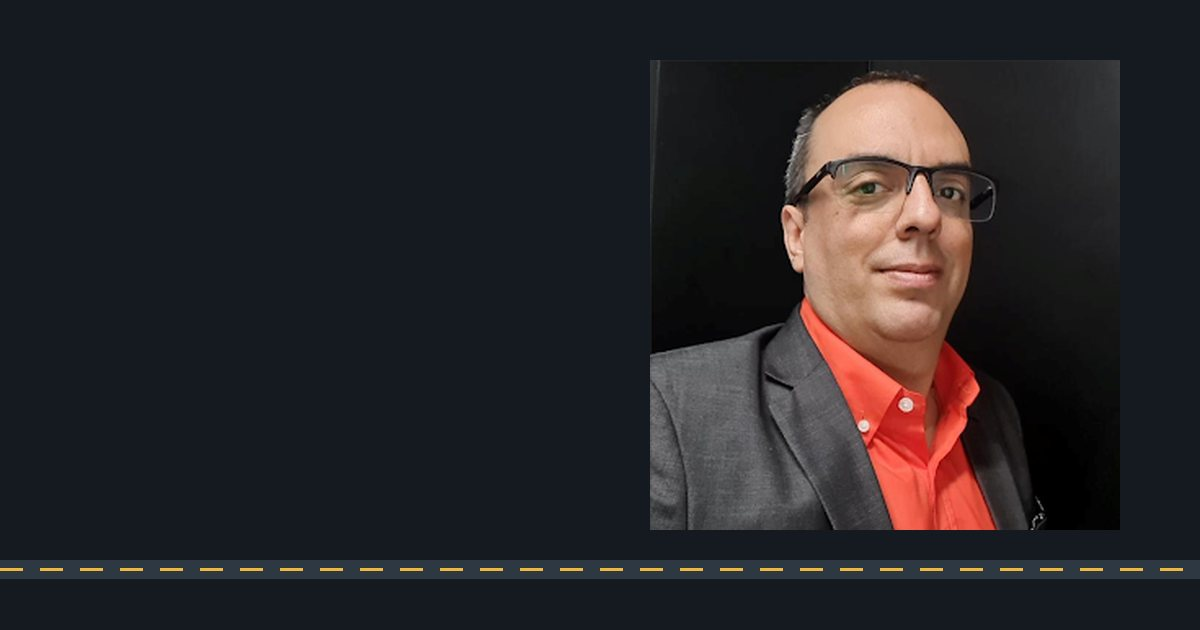
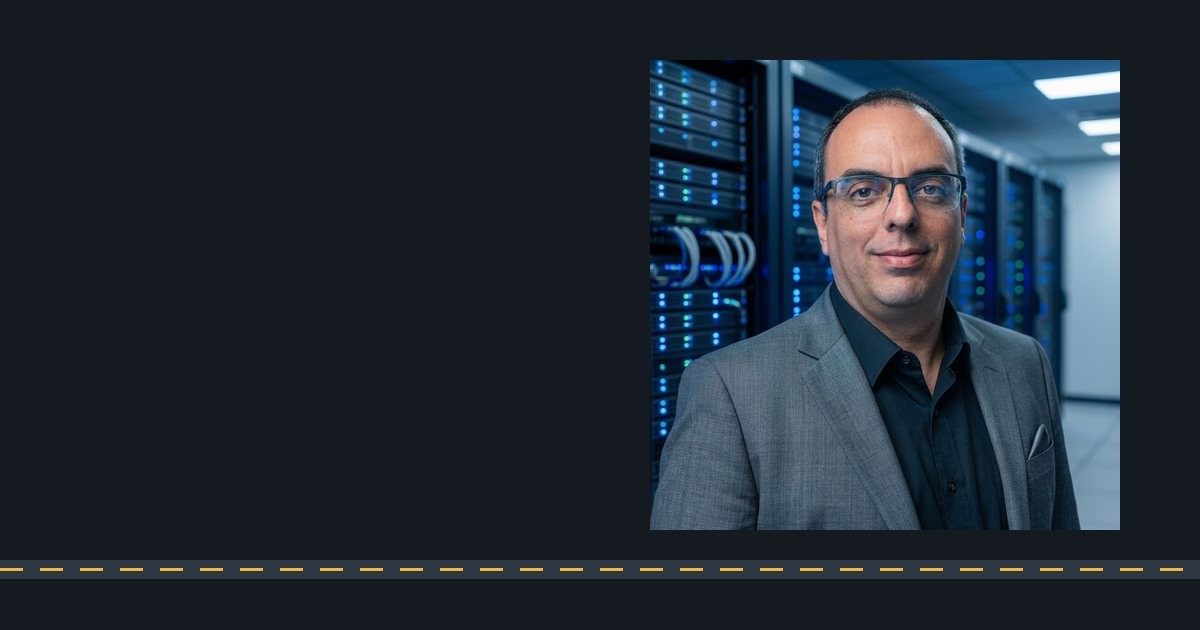
Troca a foto do perfil
Claude-Session: https://claude.ai/code/session_01JxGKhW12KzvcoDFAsgScd3

Changed region(s): [[0.5242, 0.0905, 0.9558, 0.8444]]

diff --git a/assets/css/estilo.css b/assets/css/estilo.css
@@ -96,7 +96,7 @@ main { max-width: var(--largura); margin: 0 auto; padding: clamp(2rem, 6vw, 4.5r
 .retrato::before {
   content: ""; position: absolute; inset: 1.1rem -1.1rem -1.1rem 1.1rem; border: 1.5px solid var(--faixa); border-radius: 4px;
 }
-.retrato img { position: relative; width: 18rem; max-width: 100%; aspect-ratio: 1; object-fit: cover; border-radius: 4px; }
+.retrato img { position: relative; width: 22rem; max-width: 100%; aspect-ratio: 1; object-fit: cover; border-radius: 4px; }
 
 /* A rota: a linha do tempo desenhada como uma pista, com a faixa central tracejada */
 .secao-rota { margin-top: clamp(3rem, 8vw, 6rem); }

diff --git a/conteudo/index.md b/conteudo/index.md
@@ -19,7 +19,7 @@ Com espírito inovador e empreendedor, busquei formação acadêmica em ciência
 
 </div>
 <figure class="retrato">
-  <img src="/assets/img/giuliano.jpg" alt="Giuliano Curtinaz, de óculos, paletó cinza e camisa laranja" width="288" height="288">
+  <img src="/assets/img/giuliano.jpg" alt="Giuliano Curtinaz, de óculos e paletó cinza, em frente a racks de servidores" width="800" height="800">
 </figure>
 </section>
 
